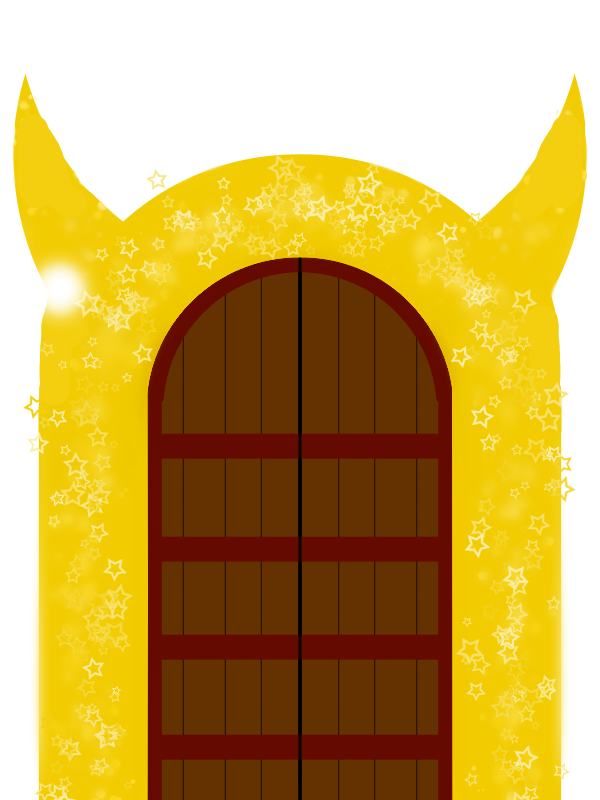
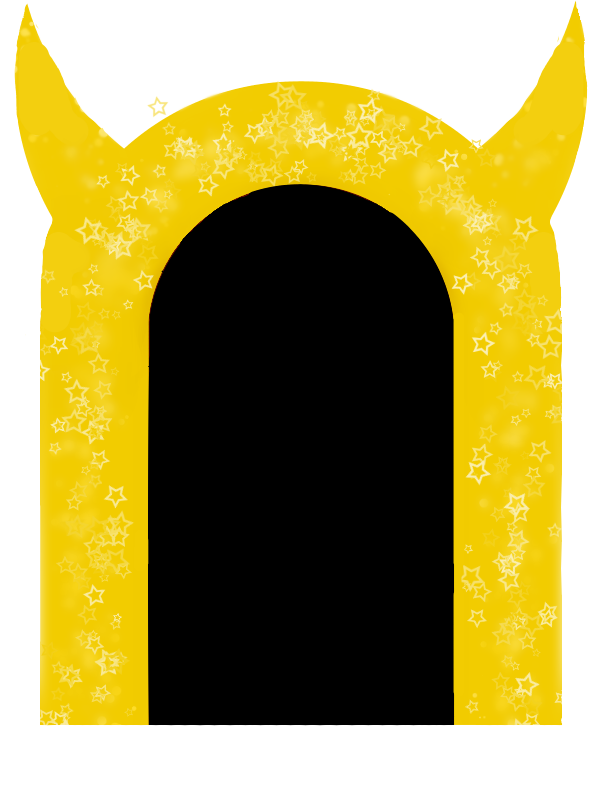
ゴールテクスチャ表示変更

diff --git a/stage/Goal.cpp b/stage/Goal.cpp
@@ -2,8 +2,10 @@
 
 void Goal::Initialize()
 {
-	model_ = Model::Create();
-	worldTransform_.scale_ = { 10.0f,Y_RAD ,10.0f };
+	model_ = Model::CreateFromOBJ("Goal");
+	//model_ = Model::Create();
+	worldTransform_.scale_ = { 5.0f,5.0f ,5.0f };
+	worldTransform_.rotation_ = { 0.0f,3.14f / 2.0f,0.0f };
 	worldTransform_.Initialize();
 	worldTransform_.Update();
 	SetCollisionAttribute(CollisionAttribute::Goal);
@@ -21,14 +23,14 @@ void Goal::SetGoal(int stage)
 
 	switch (stage)
 	{
-	case 1: worldTransform_.translation_ = { 0,Y_POS,160.0f };			break;
-	case 2: worldTransform_.translation_ = { 100.0f,Y_POS,-20.0f };		break;
-	case 3: worldTransform_.translation_ = { 200.0f,Y_POS,200.0f };		break;
-	case 4: worldTransform_.translation_ = { 0.0f,Y_POS,360.0f };		break;
-	case 5: worldTransform_.translation_ = { 240.0f,Y_POS,-240.0f };	break;
-	case 6: worldTransform_.translation_ = { -100.0f,Y_POS,120.0f };	break;
-	case 7: worldTransform_.translation_ = { 400.0f,Y_POS,-300.0f };	break;
-	case 8: worldTransform_.translation_ = { 280.0f,Y_POS,-280.0f };	break;
+	case 1: worldTransform_.translation_ = { 0,Y_POS + 15,160.0f };			break;
+	case 2: worldTransform_.translation_ = { 100.0f,Y_POS + 15,-20.0f };	break;
+	case 3: worldTransform_.translation_ = { 200.0f,Y_POS + 15,200.0f };	break;
+	case 4: worldTransform_.translation_ = { 0.0f,Y_POS + 15,360.0f };		break;
+	case 5: worldTransform_.translation_ = { 240.0f,Y_POS + 15,-240.0f };	break;
+	case 6: worldTransform_.translation_ = { -100.0f,Y_POS + 15,120.0f };	break;
+	case 7: worldTransform_.translation_ = { 400.0f,Y_POS + 15,-300.0f };	break;
+	case 8: worldTransform_.translation_ = { 280.0f,Y_POS + 15,-280.0f };	break;
 	}
 	worldTransform_.Update();
 }

diff --git a/stage/Goal.h b/stage/Goal.h
@@ -9,7 +9,7 @@ class Goal :public Collider
 {
 	WorldTransform worldTransform_;
 	Model* model_ = nullptr;
-	const float Y_POS = -20.0f;
+	const float Y_POS = -10.0f;
 	const float Y_RAD = fabs(Y_POS) * 2.0f;
 	bool isGoal = 0;
 public:
